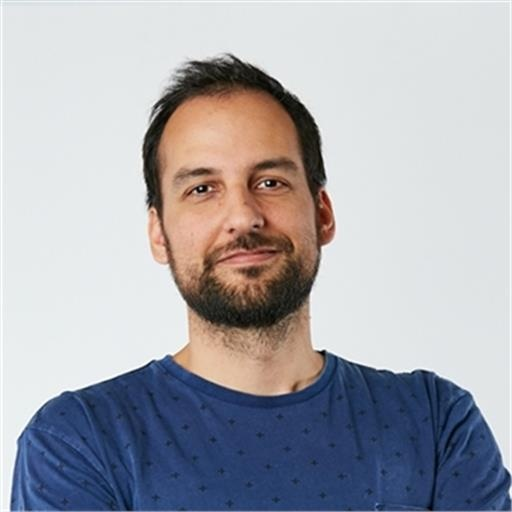
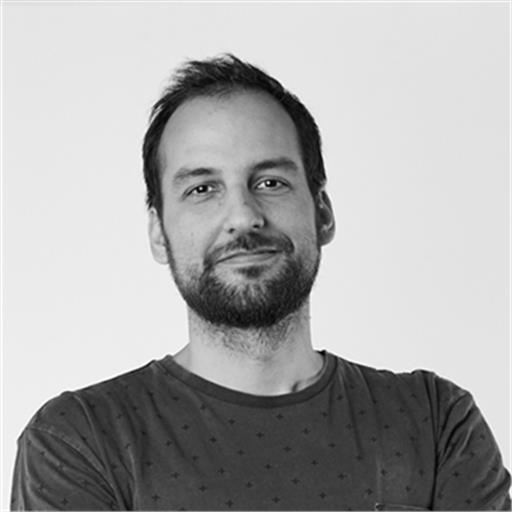
image from random bytes

diff --git a/bytes_image.py b/bytes_image.py
@@ -1,0 +1,16 @@
+import cv2
+import numpy
+import os
+
+# Make an array of 120,000 random bytes
+randomByteArray = bytearray(os.urandom(120000))
+
+flatNumpyArray = numpy.array(randomByteArray)
+
+# Convert the array into 300x400 grayscale image
+grayimage = flatNumpyArray.reshape(300, 400)
+cv2.imwrite('random-gray.png', grayimage)
+
+# Convert the array into 300x400 rgb image
+rgbImage = flatNumpyArray.reshape(200, 200, 3) # 3 colours are the 3rd dimension?
+cv2.imwrite('random-rgb.png', rgbImage)

diff --git a/rw_image.py b/rw_image.py
@@ -14,7 +14,7 @@ directory = r'/Users/iznenad/dev/opencv'
   
 # Using cv2.imread() method
 # to read the image
-img = cv2.imread(image_path)
+img = cv2.imread(image_path, cv2.IMREAD_GRAYSCALE)
   
 # Change the current directory 
 # to specified directory 
